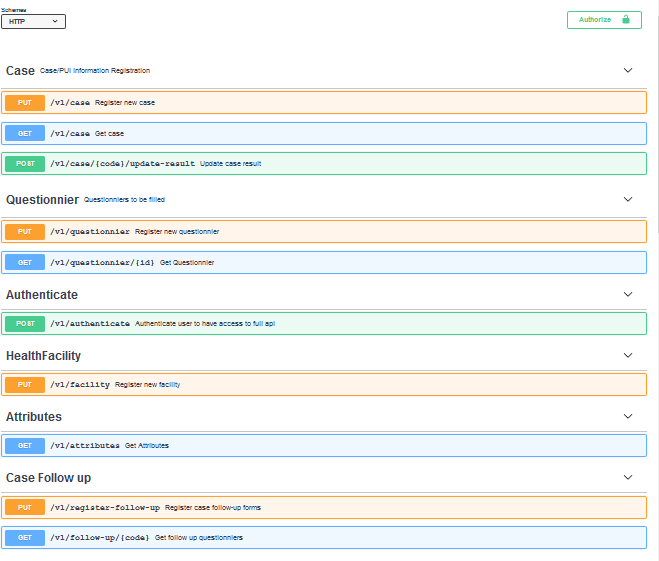
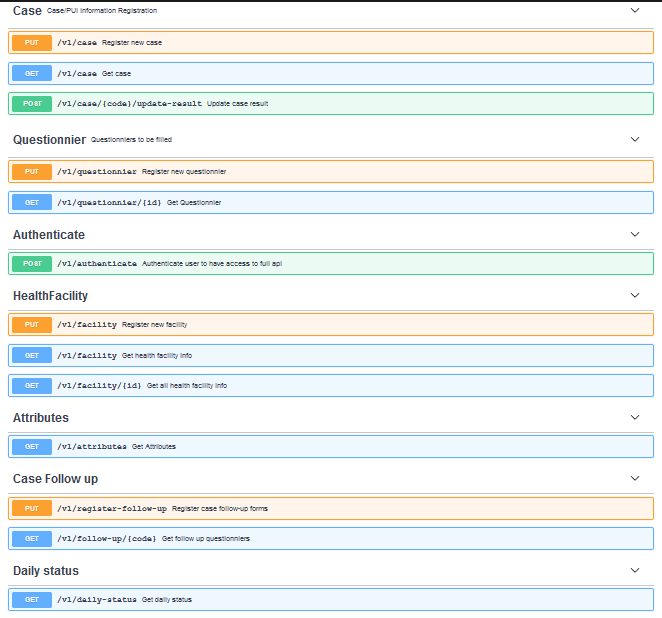
add daily case status follow up

Changed region(s): [[0.0, 0.0, 1.0, 1.0]]

diff --git a/src/main/java/et/covid19/rest/dal/model/CaseStat.java b/src/main/java/et/covid19/rest/dal/model/CaseStat.java
@@ -1,0 +1,130 @@
+package et.covid19.rest.dal.model;
+
+import java.io.Serializable;
+import java.time.LocalDate;
+
+import javax.persistence.Column;
+import javax.persistence.Entity;
+import javax.persistence.GeneratedValue;
+import javax.persistence.GenerationType;
+import javax.persistence.Id;
+import javax.persistence.NamedQuery;
+import javax.persistence.SequenceGenerator;
+import javax.persistence.Table;
+
+
+/**
+ * The persistent class for the case_stat database table.
+ * 
+ */
+@Entity
+@Table(name="case_stat")
+@NamedQuery(name="CaseStat.findAll", query="SELECT c FROM CaseStat c")
+public class CaseStat implements Serializable {
+	private static final long serialVersionUID = 1L;
+	
+	@Id
+	@GeneratedValue(strategy = GenerationType.SEQUENCE, generator = "CASE_STAT_gen")
+	@SequenceGenerator(name="CASE_STAT_gen", sequenceName = "CASE_STAT_SEQ", allocationSize=1)
+	private Integer id;
+
+	@Column(name="active_cases")
+	private Integer activeCases;
+
+	@Column(name="new_cases")
+	private Integer newCases;
+
+	@Column(name="new_deaths")
+	private Integer newDeaths;
+
+	@Column(name="report_date")
+	private LocalDate reportDate;
+
+	@Column(name="serious_critical_cases")
+	private Integer seriousCriticalCases;
+
+	@Column(name="total_cases")
+	private Integer totalCases;
+
+	@Column(name="total_deaths")
+	private Integer totalDeaths;
+
+	@Column(name="total_recovered")
+	private Integer totalRecovered;
+
+	public CaseStat() {
+	}
+
+	public Integer getId() {
+		return this.id;
+	}
+
+	public void setId(Integer id) {
+		this.id = id;
+	}
+
+	public Integer getActiveCases() {
+		return this.activeCases;
+	}
+
+	public void setActiveCases(Integer activeCases) {
+		this.activeCases = activeCases;
+	}
+
+	public Integer getNewCases() {
+		return this.newCases;
+	}
+
+	public void setNewCases(Integer newCases) {
+		this.newCases = newCases;
+	}
+
+	public Integer getNewDeaths() {
+		return this.newDeaths;
+	}
+
+	public void setNewDeaths(Integer newDeaths) {
+		this.newDeaths = newDeaths;
+	}
+
+	public LocalDate getReportDate() {
+		return this.reportDate;
+	}
+
+	public void setReportDate(LocalDate reportDate) {
+		this.reportDate = reportDate;
+	}
+
+	public Integer getSeriousCriticalCases() {
+		return this.seriousCriticalCases;
+	}
+
+	public void setSeriousCriticalCases(Integer seriousCriticalCases) {
+		this.seriousCriticalCases = seriousCriticalCases;
+	}
+
+	public Integer getTotalCases() {
+		return this.totalCases;
+	}
+
+	public void setTotalCases(Integer totalCases) {
+		this.totalCases = totalCases;
+	}
+
+	public Integer getTotalDeaths() {
+		return this.totalDeaths;
+	}
+
+	public void setTotalDeaths(Integer totalDeaths) {
+		this.totalDeaths = totalDeaths;
+	}
+
+	public Integer getTotalRecovered() {
+		return this.totalRecovered;
+	}
+
+	public void setTotalRecovered(Integer totalRecovered) {
+		this.totalRecovered = totalRecovered;
+	}
+
+}

diff --git a/src/main/java/et/covid19/rest/controllers/DailyStatusController.java b/src/main/java/et/covid19/rest/controllers/DailyStatusController.java
@@ -1,0 +1,42 @@
+package et.covid19.rest.controllers;
+
+import org.springframework.beans.factory.annotation.Autowired;
+import org.springframework.http.HttpStatus;
+import org.springframework.http.ResponseEntity;
+import org.springframework.web.bind.annotation.RestController;
+
+import et.covid19.rest.annotations.EthLoggable;
+import et.covid19.rest.config.AbstractController;
+import et.covid19.rest.services.IDailyCaseStatus;
+import et.covid19.rest.swagger.api.DailyStatusApi;
+import et.covid19.rest.swagger.model.ModelDailyCaseStatus;
+import et.covid19.rest.swagger.model.ResponseDailyCaseStatus;
+import et.covid19.rest.util.exception.EthException;
+
+@RestController
+public class DailyStatusController extends AbstractController implements DailyStatusApi {
+
+	@Autowired
+	private IDailyCaseStatus dailyCaseService;
+	
+	@Override
+	@EthLoggable
+	public ResponseEntity<ResponseDailyCaseStatus> getDailyStatus() {
+		Class<ResponseDailyCaseStatus> responseClass = ResponseDailyCaseStatus.class;
+		ResponseDailyCaseStatus response = null;
+		HttpStatus status = HttpStatus.OK;
+		try{
+			ModelDailyCaseStatus stat = dailyCaseService.getDailyCaseStatus();
+			response = fillSuccessResponse(new ResponseDailyCaseStatus().returnValue(stat));
+		} catch(EthException ex) {
+			status = ex.getHttpCode();
+			response = fillFailResponseEthException(responseClass, ex);
+		} catch (Exception ex) {
+			status = HttpStatus.INTERNAL_SERVER_ERROR;
+			response = fillFailResponseGeneric(responseClass);
+		}
+		
+		return new ResponseEntity<>(response, status);
+	}
+
+}

diff --git a/src/main/java/et/covid19/rest/services/impl/DailyCaseStatusImpl.java b/src/main/java/et/covid19/rest/services/impl/DailyCaseStatusImpl.java
@@ -1,0 +1,41 @@
+package et.covid19.rest.services.impl;
+
+import java.time.LocalDate;
+
+import org.springframework.beans.factory.annotation.Autowired;
+import org.springframework.stereotype.Service;
+
+import et.covid19.rest.dal.model.CaseStat;
+import et.covid19.rest.dal.repositories.DailyStatusRepository;
+import et.covid19.rest.services.IDailyCaseStatus;
+import et.covid19.rest.swagger.model.ModelDailyCaseStatus;
+import et.covid19.rest.util.exception.EthException;
+import et.covid19.rest.util.exception.EthExceptionEnums;
+
+@Service
+public class DailyCaseStatusImpl implements IDailyCaseStatus {
+
+	@Autowired
+	private DailyStatusRepository dailyStatusRepository;
+	
+	@Override
+	public ModelDailyCaseStatus getDailyCaseStatus() throws EthException {
+		try {
+			CaseStat stat = dailyStatusRepository.findByReportDate(LocalDate.now())
+					.stream().findFirst()
+					.orElseThrow(EthExceptionEnums.DAILY_STAT_NOT_FOUND);
+			
+			return new ModelDailyCaseStatus()
+					.activeCases(stat.getActiveCases())
+					.newCases(stat.getNewCases())
+					.newDeaths(stat.getNewDeaths())
+					.totalDeaths(stat.getTotalDeaths())
+					.recovered(stat.getTotalRecovered())
+					.criticalCases(stat.getSeriousCriticalCases())
+					.totalCases(stat.getTotalCases());
+		} catch (Exception ex) {
+			throw ex;
+		}
+	}
+
+}

diff --git a/src/main/java/et/covid19/rest/util/exception/EthExceptionEnums.java b/src/main/java/et/covid19/rest/util/exception/EthExceptionEnums.java
@@ -17,6 +17,7 @@ public enum EthExceptionEnums implements Supplier<EthException> {
 	CONSTANT_NOT_FOUND(new EthException(HttpStatus.NOT_FOUND , 404003, "Attribute or Constant not found.")),
 	QUESTIONNIER_NOT_FOUND(new EthException(HttpStatus.NOT_FOUND , 404004, "Questionnier not found.")),
 	HEALTH_FACILITY_NOT_FOUND(new EthException(HttpStatus.NOT_FOUND , 404005, "Health facility not found.")),
+	DAILY_STAT_NOT_FOUND(new EthException(HttpStatus.NOT_FOUND , 404006, "Daily status empty.")),
 	
 	USERNAME_OR_EMAIL_INCORECT(new EthException(HttpStatus.UNAUTHORIZED , 401001, "User name or email incorrect!")),
 	AUTHENTICATION_REQUIRED(new EthException(HttpStatus.UNAUTHORIZED , 401002, "Authentication is requred, please try again!")),

diff --git a/src/main/java/et/covid19/rest/dal/repositories/DailyStatusRepository.java b/src/main/java/et/covid19/rest/dal/repositories/DailyStatusRepository.java
@@ -1,0 +1,15 @@
+package et.covid19.rest.dal.repositories;
+
+import java.time.LocalDate;
+import java.util.List;
+
+import org.springframework.data.jpa.repository.JpaRepository;
+import org.springframework.stereotype.Repository;
+
+import et.covid19.rest.dal.model.CaseStat;
+
+@Repository
+public interface DailyStatusRepository extends JpaRepository<CaseStat, Integer> {
+	
+	List<CaseStat> findByReportDate(LocalDate date);
+}

diff --git a/src/main/java/et/covid19/rest/services/IDailyCaseStatus.java b/src/main/java/et/covid19/rest/services/IDailyCaseStatus.java
@@ -1,0 +1,9 @@
+package et.covid19.rest.services;
+
+import et.covid19.rest.swagger.model.ModelDailyCaseStatus;
+import et.covid19.rest.util.exception.EthException;
+
+public interface IDailyCaseStatus {
+
+	public ModelDailyCaseStatus getDailyCaseStatus() throws EthException;
+}
